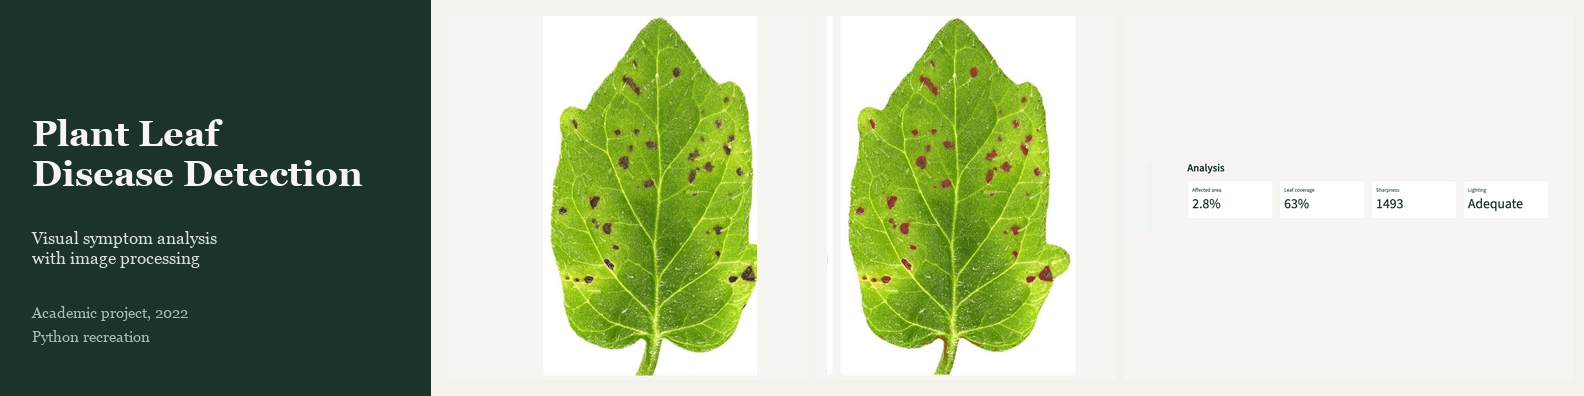
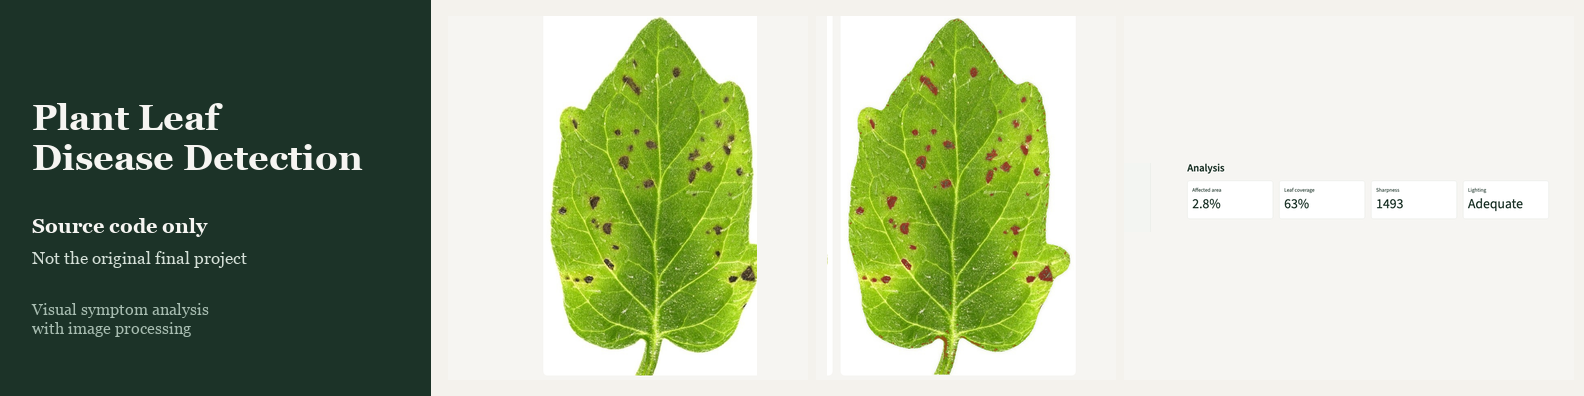
State that the public repository is source code only.

Changed region(s): [[0.0, 0.2727, 0.2475, 0.4848], [0.0, 0.5455, 0.1547, 0.6667], [0.0, 0.7576, 0.1237, 0.8788]]

diff --git a/LINKEDIN_PROJECT.md b/LINKEDIN_PROJECT.md
@@ -4,15 +4,13 @@
 
 **Academic dates:** April 2022 – July 2022
 
-**College:** Kallam Haranadhareddy Institute of Technology
-
 **GitHub link:** https://github.com/janibasha1024-coder/plant-leaf-disease-detection
 
 ## Project description
 
-Leaf Doctor was my undergraduate project on plant-leaf photographs, completed from April 2022 to July 2022 during a B.Tech in Electronics and Communication Engineering at Kallam Haranadhareddy Institute of Technology. The original work used MATLAB, Python, and image processing to look for visible signs of disease.
+This repository is the source code only. It is not the original final project report, slides, or submitted files.
 
-The original source files were not available when I prepared a public copy, so the GitHub project is a later Python and OpenCV recreation of that study. It resizes a leaf photograph, reduces noise, separates the main green region, and estimates how much of that region differs from a green reference. The page states that this is a visual check, not a diagnosis, and it does not report an accuracy figure. The new code should be read as a current recreation, not as the 2022 MATLAB project itself.
+The work studied plant-leaf photographs with image processing, from April 2022 to July 2022. The public copy is a later Python and OpenCV version of that study. It resizes a photograph, reduces noise, separates the main green region, and estimates how much of that region differs from a green reference. The result is a visual check. It does not name a disease and it does not report an accuracy figure.
 
 ## Skills
 
@@ -21,8 +19,6 @@ The original source files were not available when I prepared a public copy, so t
 - Computer Vision
 - OpenCV
 - Problem Solving
-
-MATLAB was part of the original 2022 coursework. It is not part of the code in this recreation, so it is not listed as a skill of the GitHub project.
 
 ## Screenshot order
 
@@ -34,14 +30,14 @@ Upload these files from `docs/screenshots/` in this order:
 4. `leaf-segmentation.png`
 5. `analysis-results.png`
 
-`linkedin-cover.png` is the wide image for the project link card or a featured post. It is assembled from the application screenshots.
+Use `linkedin-cover.png` if LinkedIn asks for one wide image. The cover states that this is source code only, not the original final project.
 
 ## Adding it on LinkedIn
 
-1. Open your profile and choose **Add profile section**, then **Recommended** or **Projects**, then **Add project**.
+1. Open your profile and choose **Add profile section**, then **Projects**, then **Add project**.
 2. Use the project title above.
-3. Set the dates to April 2022 – July 2022. In the description, keep the sentence that this GitHub copy is a later recreation, so the dates are not read as the date of the new code.
-4. Paste the description from this file.
+3. Set the dates to April 2022 – July 2022.
+4. Paste the project description from this file. Leave out school names, personal names, and photographer names.
 5. Add the five skills listed above.
-6. Add the GitHub URL only after the repository is public.
-7. Upload the five screenshots in the order above. Use `linkedin-cover.png` if LinkedIn asks for a single project image.
+6. Add the GitHub link above.
+7. Upload the five screenshots in the order above.
